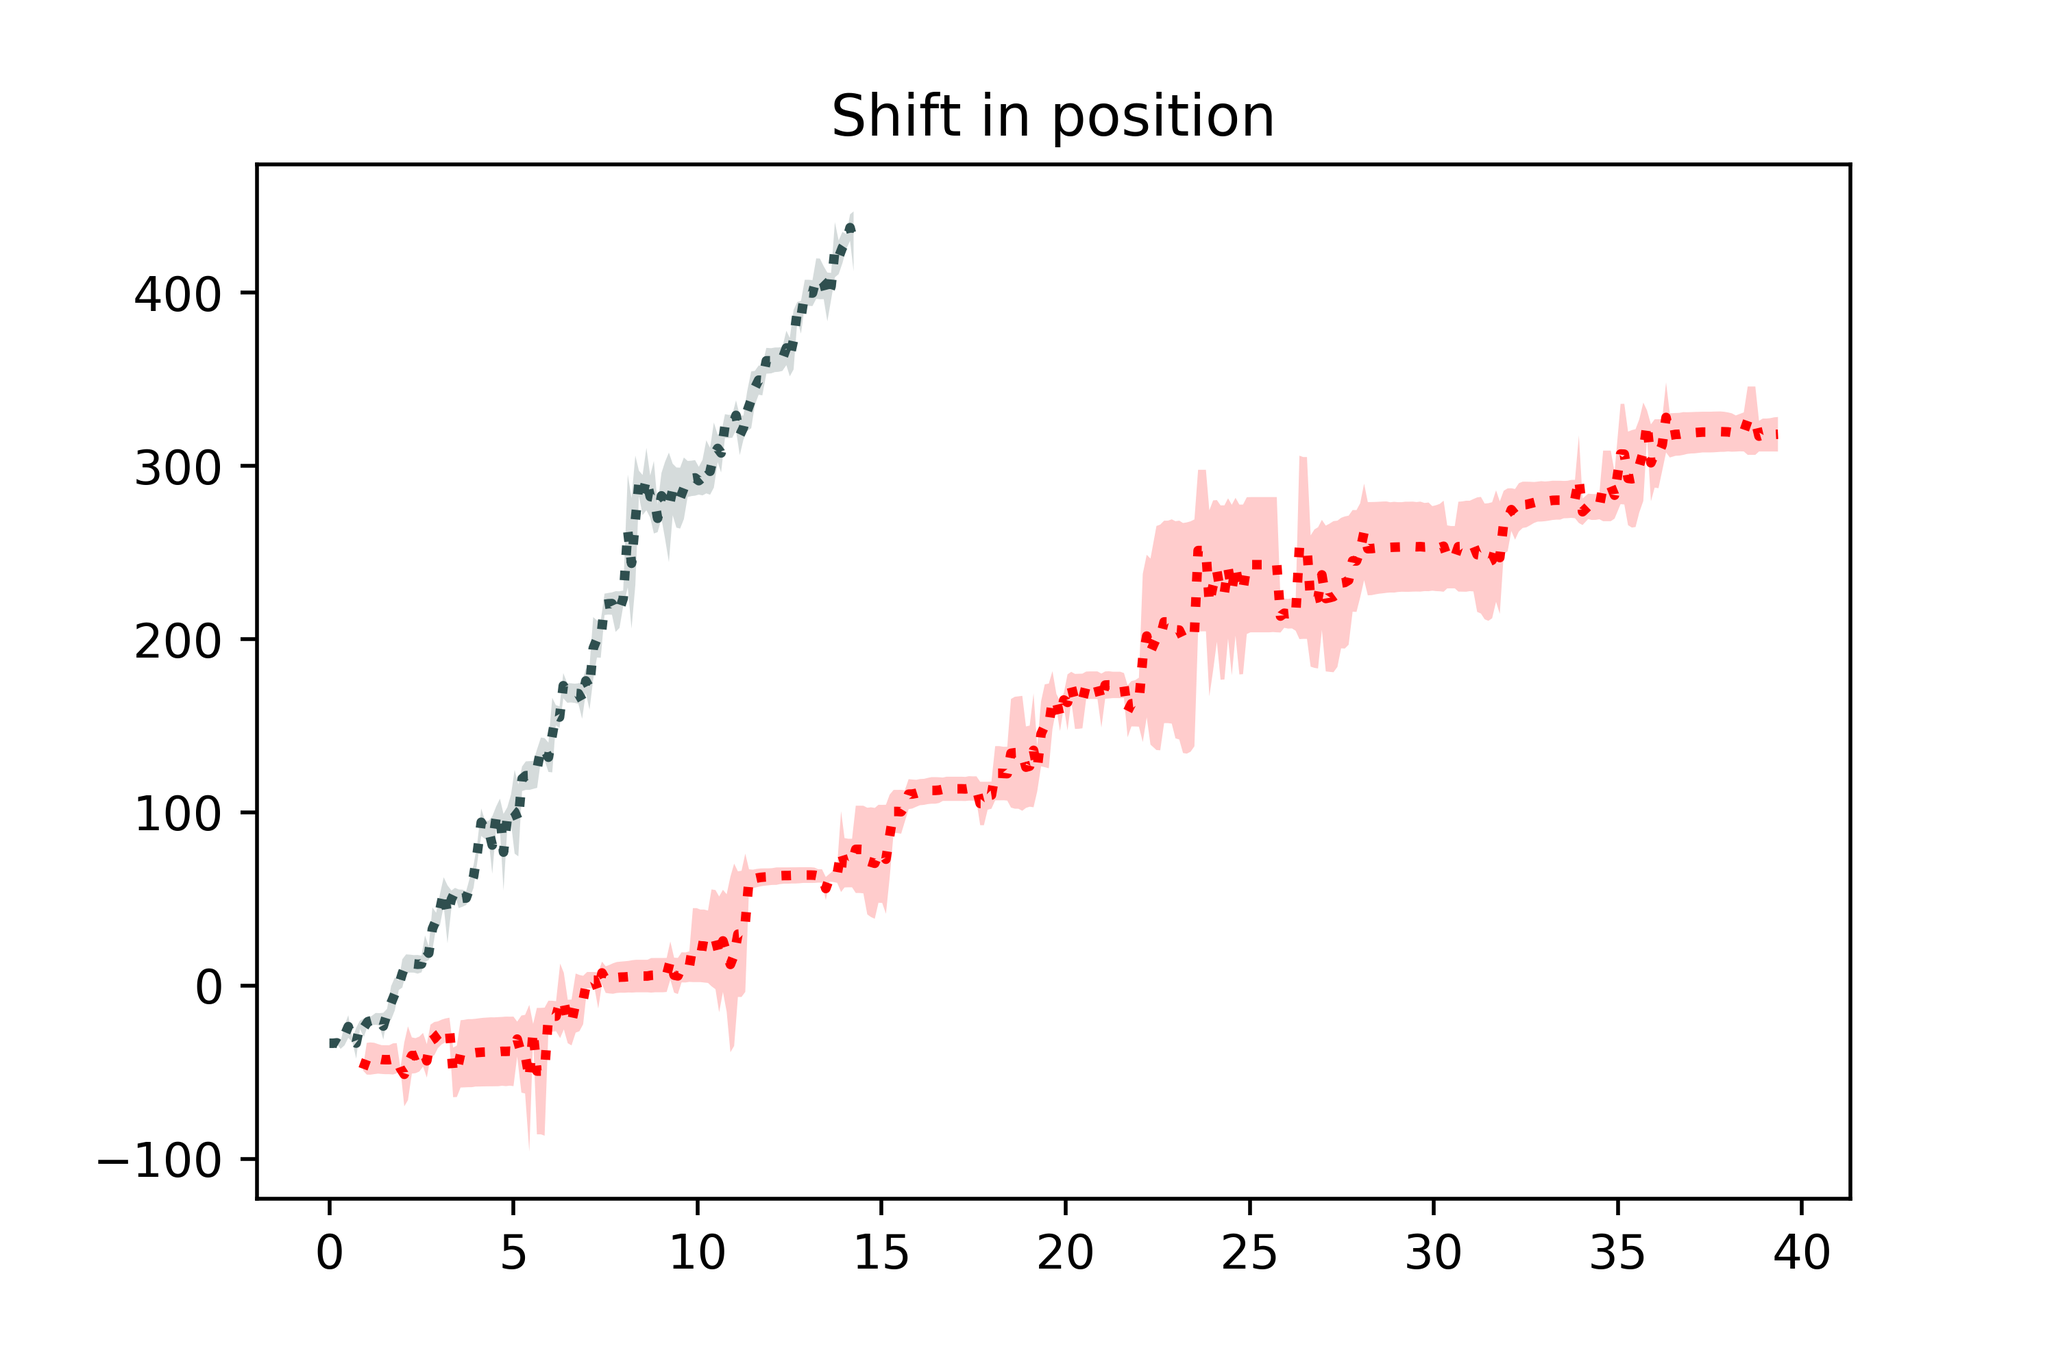
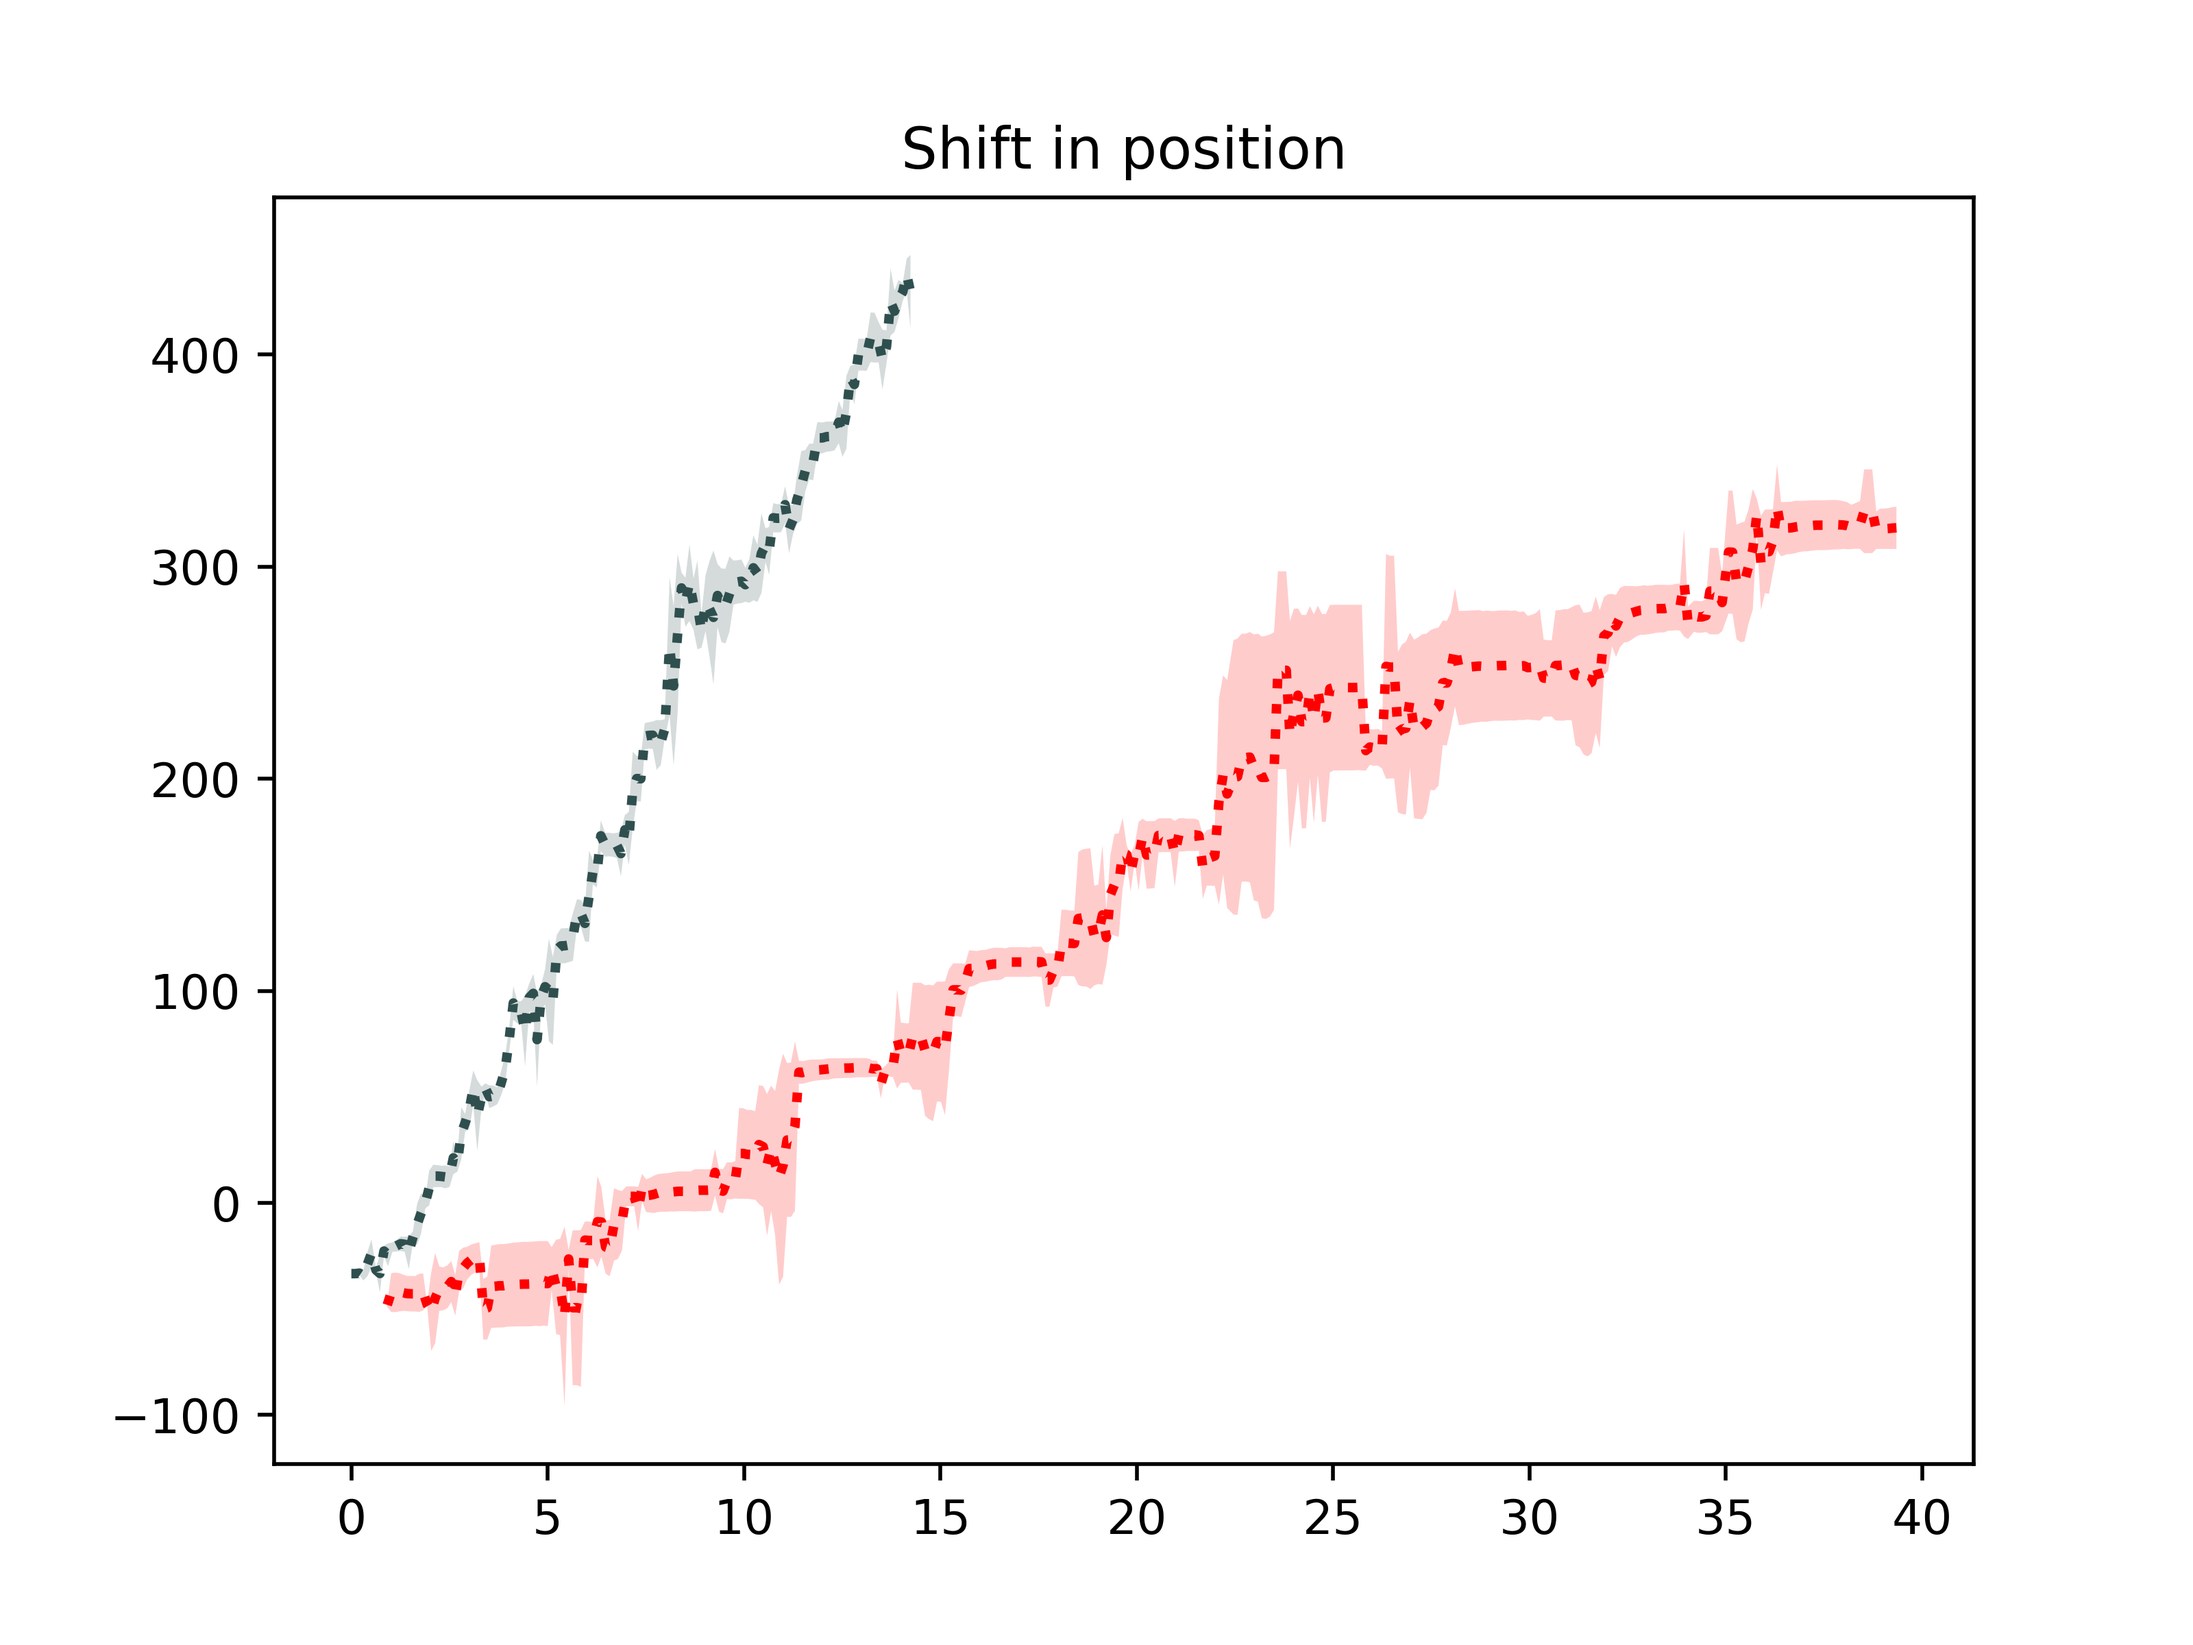
eval: track mean plot

diff --git a/Code/Evaluation_EXP_WalkingBigSmall_1.py b/Code/Evaluation_EXP_WalkingBigSmall_1.py
@@ -4,13 +4,15 @@ Created on Mon Jan 28 15:35:06 2019
 
 @author: AmP
 """
-
-SAVE = True
-
-
-from Src.Visual.GUI import save
 import matplotlib.pyplot as plt
 import numpy as np
+
+from Src.Visual.GUI import save
+from Src.Math import kinematic_model_fun as kinematic
+
+
+SAVE = False
+
 
 
 def remove_offset_time_xy(data):
@@ -206,16 +208,19 @@ for exp in range(1,4):
     cyc_big.append(cycles_big)
 
 
-def calc_centerpoint(data_set, cycles):
+def calc_centerpoint(data_set, cycles, axis='x'):
     X = []
     min_dist = min([idx[-1] - idx[0] for idx in cycles])
+    markers = ['{}{}'.format(axis, idx) for idx in range(6)]
 
     for exp in range(len(data_set)):
         start = cycles[exp][0]
         x = []  # list of center in current exp
         for idx in range(start, start+min_dist):
-            all_x = [data_set[exp][foot][idx] for foot in ['x0', 'x2', 'x3', 'x5']]  # calc center
+#            all_x = [data_set[exp][foot][idx] for foot in ['x0', 'x2', 'x3', 'x5']]  # calc center
+            all_x = [data_set[exp][foot][idx] for foot in markers]  # calc center
             x.append(np.nanmean(all_x))
+#            x.append(np.mean(all_x))
         X.append(x)     # List of centers in all exp
     t = data_set[exp]['time'][start:start+min_dist]
     return X, t
@@ -248,7 +253,7 @@ plt.title('Shift in position')
 centers, t = calc_centerpoint(ds, cyc_small)
 mat = make_matrix_plain(centers)
 mu, sigma = calc_mean_stddev(mat)
-plt.plot(t, mu, ':', lw=2, label='p_{v0}', color=color_prs)
+plt.plot(t, mu, '-', lw=2, label='p_{v0}', color=color_prs)
 plt.fill_between(t, mu+sigma, mu-sigma, facecolor=color_prs, alpha=0.2)
 
 
@@ -256,7 +261,7 @@ plt.fill_between(t, mu+sigma, mu-sigma, facecolor=color_prs, alpha=0.2)
 centers, t = calc_centerpoint(db, cyc_big)
 mat = make_matrix_plain(centers)
 mu, sigma = calc_mean_stddev(mat)
-plt.plot(t, mu, ':', lw=2, label='p_{v0}', color=color_alp)
+plt.plot(t, mu, '-', lw=2, label='p_{v0}', color=color_alp)
 plt.fill_between(t, mu+sigma, mu-sigma, facecolor=color_alp, alpha=0.2)
 
 if SAVE:
@@ -274,26 +279,51 @@ ________________________________________________
 
 
 
-plt.figure()
-plt.title('Test Track')
+#plt.figure()
+#plt.title('Test Track')
+#
+#min_dist = min([idx[-1] - idx[0] for idx in cyc_small])
+#
+#col = ['red', 'orange', 'green', 'blue', 'blue', 'blue']
+#spec = ['--', '-']
+#shiftx = [0, 0, 0.]
+#shifty = [0, 0, 0]
+#
+#
+#for exp in range(len(ds)):
+#    start = cyc_small[exp][0]
+#    for mark in range(6):    
+#        x = [val+shiftx[exp] for val in ds[exp]['x{}'.format(mark)][start:start+min_dist]]
+#        y = [val+shifty[exp] for val in ds[exp]['y{}'.format(mark)][start:start+min_dist]]
+#        
+#        plt.plot(x, y, spec[mark%2], color=col[exp])
+#
+#plt.axis('equal')
 
-min_dist = min([idx[-1] - idx[0] for idx in cyc_small])
 
-col = ['red', 'orange', 'green', 'blue', 'blue', 'blue']
-spec = ['--', '-']
-shiftx = [0, 0, 0.]
-shifty = [0, 0, 0]
+#plt.figure()
+#plt.title('Test Track BigBot')
+#
+#min_dist = min([idx[-1] - idx[0] for idx in cyc_big])
+#
+#col = ['red', 'orange', 'green', 'blue', 'blue', 'blue']
+#spec = ['--', '-']
+#
+#for exp in range(len(ds)):
+#    start = cyc_big[exp][0]
+#    for mark in range(6):    
+#        x = [val+shiftx[exp] for val in db[exp]['x{}'.format(mark)][start:start+min_dist]]
+#        y = [val+shifty[exp] for val in db[exp]['y{}'.format(mark)][start:start+min_dist]]
+#        
+#        plt.plot(x, y, spec[mark%2], color=col[exp])
+#
+#plt.axis('equal')
+#
+#
 
 
-for exp in range(len(ds)):
-    start = cyc_small[exp][0]
-    for mark in range(6):    
-        x = [val+shiftx[exp] for val in ds[exp]['x{}'.format(mark)][start:start+min_dist]]
-        y = [val+shifty[exp] for val in ds[exp]['y{}'.format(mark)][start:start+min_dist]]
-        
-        plt.plot(x, y, spec[mark%2], color=col[exp])
 
-plt.axis('equal')
+
 
 
 
@@ -326,7 +356,7 @@ for idx in range(6):
     y = -np.array(Y[idx])
     sigx = np.array(Xstd[idx])
     sigy = np.array(Ystd[idx])
-#    plt.plot(x, y, color=col[idx])
+    plt.plot(x, y, color=col[idx])
     plt.fill_between(x, y+sigy, y-sigy, facecolor=col[idx], alpha=0.6)
 
 
@@ -337,16 +367,84 @@ for idx in range(6):
     y = -(np.array(Y[idx]) + yshift)
     sigx = np.array(Xstd[idx])
     sigy = np.array(Ystd[idx])
-#    plt.plot(x, y, color=col[idx])
+    plt.plot(x, y, color=col[idx])
     plt.fill_between(x, y+sigy, y-sigy, facecolor=col[idx], alpha=0.5, label='mark_{}'.format(idx))
+
+
+
+
+######## plot gecko in first position:
+exp = 0
+cycle = 3
+idx = cyc_big[exp][cycle]
+positions = ([db[exp]['x{}'.format(foot)][idx] for foot in range(6)],
+             [db[exp]['y{}'.format(foot)][idx] for foot in range(6)])
+alpha = [db[exp]['aIMG{}'.format(foot)][idx] for foot in range(6)]
+eps = db[exp]['eps'][idx]
+
+
+alpha_ = alpha[0:3] + alpha[4:6]
+pose, ell, bet = kinematic.extract_pose(alpha_, eps, positions)
+
+
+
 
 
 
 plt.axis('equal')
 plt.legend(loc='upper right')
 
+
+
 if SAVE:
     plt.savefig('pics/Track.png', dpi=500, facecolor='w', edgecolor='w',
+                orientation='portrait', papertype=None, format=None,
+                transparent=False, bbox_inches=None, pad_inches=0.1,
+                frameon=None, metadata=None)
+
+
+###############################################################################
+########################### TRACK MEAN ########################################
+###############################################################################
+
+
+
+plt.figure()
+plt.title('Track Mean')
+
+# Big
+yshift = -100
+X, _ = calc_centerpoint(db, cyc_big, axis='x')
+mat = make_matrix_plain(X)
+x, sigx = calc_mean_stddev(mat)
+
+Y, _ = calc_centerpoint(db, cyc_big, axis='y')
+mat = make_matrix_plain(Y)
+y, sigy = calc_mean_stddev(mat)
+y = -(y + yshift)
+
+plt.plot(x, y, color=col[idx])
+plt.fill_between(x, y+sigy, y-sigy, facecolor=color_alp, alpha=0.5, label='mean_big')
+
+# Mean Small
+yshift = 0
+X, _ = calc_centerpoint(ds, cyc_small, axis='x')
+mat = make_matrix_plain(X)
+x, sigx = calc_mean_stddev(mat)
+
+Y, _ = calc_centerpoint(ds, cyc_small, axis='y')
+mat = make_matrix_plain(Y)
+y, sigy = calc_mean_stddev(mat)
+y = -(y + yshift)
+
+plt.plot(x, y, color=col[idx])
+plt.fill_between(x, y+sigy, y-sigy, facecolor=color_prs, alpha=0.5, label='mean_small')
+
+plt.axis('equal')
+plt.legend(loc='upper right')
+
+if SAVE:
+    plt.savefig('pics/Track_Mean.png', dpi=500, facecolor='w', edgecolor='w',
                 orientation='portrait', papertype=None, format=None,
                 transparent=False, bbox_inches=None, pad_inches=0.1,
                 frameon=None, metadata=None)
